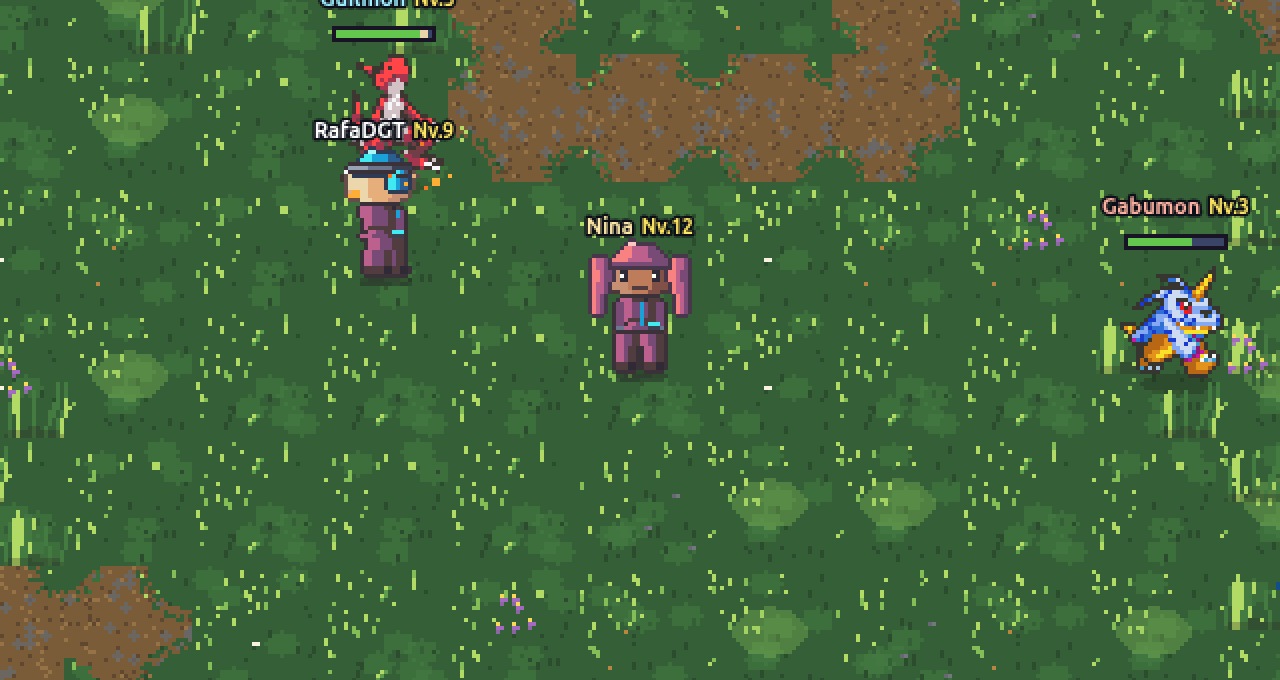
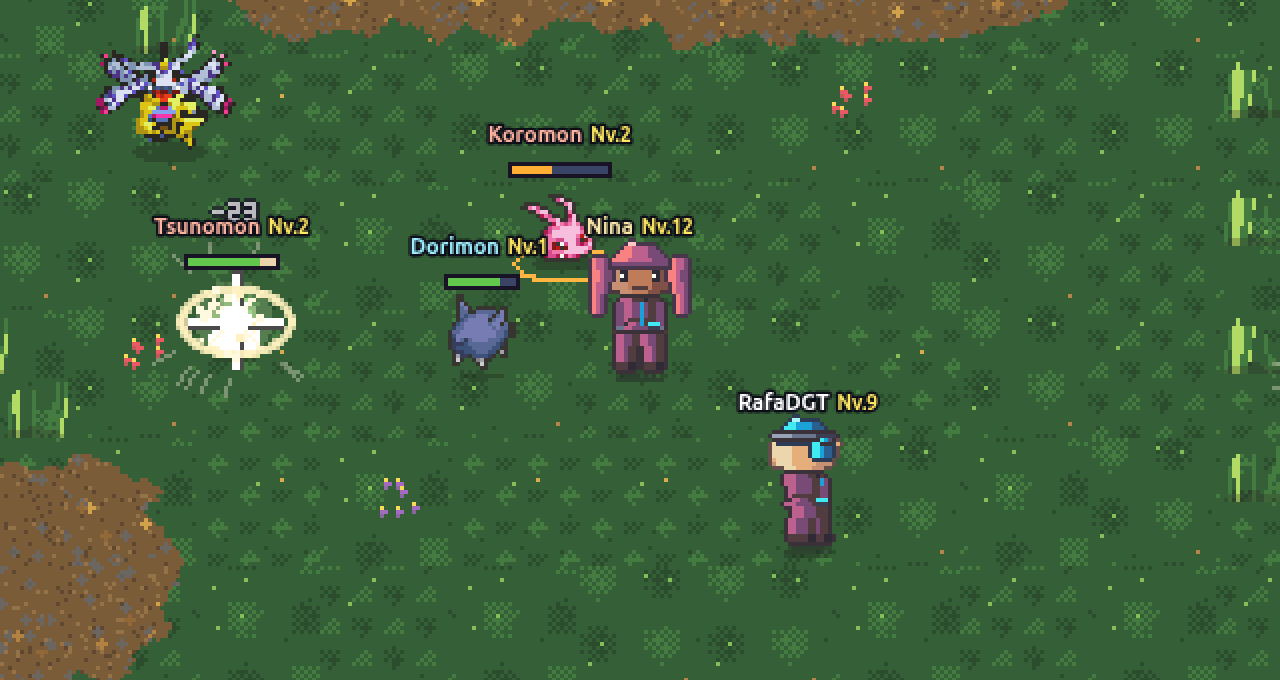
GS-003 world: capturas (inicial, Mapa-múndi, praia, vila, borda, Digivice, Inventário, Missões, Configurações, selvagens) e README da entrega

diff --git a/projects/prototypes/GS-003/prototype/world/README.md b/projects/prototypes/GS-003/prototype/world/README.md
@@ -1,7 +1,58 @@
 # GS-003 — mundo (vertical slice, Fase 5): combate no próprio mapa
 
-- **Autor:** game-dev · **Data:** 2026-11-08 · **Base:** ADR-009, `docs/WORLD_COMBAT_VISUAL_SPEC.md`, `docs/TECH_AUDIT.md` (Canvas 2D próprio), `docs/SPRITE_SPECIFICATION.md`, `docs/ANIMATION_STANDARD.md`.
+- **Autor:** game-dev · **Data:** 2026-11-08 (atualizado em 2026-11-09) · **Base:** ADR-009, `docs/WORLD_COMBAT_VISUAL_SPEC.md`, `docs/TECH_AUDIT.md` (Canvas 2D próprio), `docs/SPRITE_SPECIFICATION.md`, `docs/ANIMATION_STANDARD.md`.
 - Projeto Vite novo e separado. `../game/` é reaproveitado **sem alteração** (RNG, fórmulas e pacote `digimon-fan` importados via alias `@game`). `../game/arena-spike/` (congelado) não é tocado.
+
+## Inicial, Digimon selvagens, troca de mapa e telas secundárias (2026-11-09)
+
+Pedido do fundador: "ir criando as telas secundárias e outros Digimon para testar, e algo para trocar de mapa". Um commit por item: `8a02f1a` (QA R1), `b1b17ba` (inicial), `fdba15f` (selvagens), `b29fe28` (troca de mapa), `36198a5` (telas).
+
+- **QA R1 (`qa/QA_WORLD_R1.md`):**
+  - **#1:** o aviso do HUD diz, em destaque e com fundo, "Fan game não oficial e sem fins comerciais. Sem afiliação com Bandai ou Toei Animation."
+  - **#2:** o nome do Tamer é validado em JS (`checkTamerName`: vazio, mais de 14 caracteres ou caracteres fora de letras/números/espaço/`_-.`), não só pelo `maxlength`; um valor colado ou setado por script é cortado.
+- **Escolha do Digimon inicial** (`src/ui/starter.ts`, `src/data/starters.json`): depois do criador, num jogo novo, a tela "Escolha seu parceiro" mostra 5 bebês.
+  - Os 5: Koromon, Tsunomon, Tokomon, Gigimon (CREATURE-0002) e Dorimon (CREATURE-0014, do game-art).
+  - Cada cartão tem o sprite animado (o walk de `makeSpriteFn`), nome, estágio, atributo em pt-BR e a prévia da linha em 2 estágios com o nível de evolução. Uma espécie ainda sem arte aparece com placeholder "?".
+  - O escolhido vira a parceira no **Nv.1** e vai para o save (`starter`, v3). A equipe placeholder da cena não entra num jogo novo.
+  - Atalhos: setas e Enter. `?inicial=CREATURE-NNNN` pré-seleciona um bebê; `?criador=0` pula o criador e esta tela.
+- **18 Digimon selvagens de DW DS** (`tools/dwds_import/import_wild_dwds.js` → `GAME-ASSETS/01-creatures/CREATURE-0101..0118`, folha de contato `docs/screens/selvagens_dwds.png`):
+  - As espécies: Dorumon, Dorugamon, DoruGreymon, Biyomon, Gomamon, Tentomon, Palmon, Betamon, Gotsumon, Numemon, Floramon, Hagurumon, Crabmon, Otamamon, Goburimon, Tanemon, Lalamon e Penguinmon.
+  - O recorte é automático. As cores-chave são as que formam um bloco liso de 12×12. Os quadros de mapa são o maior grupo de componentes pequenos de altura parecida, em ordem de grade. A tabela do script só diz quais índices são S/N/W (conferidos no olho com `--index` [H]).
+  - Folhas PNG entrelaçadas são decodificadas pelo `@napi-rs/canvas`. Saída no contrato do creature.json v2 (walk/idle por direção, E espelhado de W, pivô nos pés, folha + atlas).
+  - Espécies em `world-species.json` com stats por estágio [H] e atributo oficial. Golpes (nomes oficiais) e learnsets mínimos em `src/data/moves-world.json` [H], somados aos do game-design.
+  - Linha **Dorimon → Dorumon (Nv.8) → Dorugamon (Nv.16) → DoruGreymon (Nv.24)**.
+  - Selvagens: 12 na floresta (`gen-forest-proof.mjs`) e 5 só na praia. Todos aparecem em `regions.json` por região.
+- **Troca de mapa** (`src/world/regions.ts`, `scripts/gen-region-maps.mjs`, `npm run map:regions`):
+  - **Floresta Densa** (`forest-proof`, forest-v4.1, com os 3 bots).
+  - **Praia dos Postes** (`praia`, 44×28, pacote `praia-v5` do game-art): areia, mar com autotile de 16 peças (sólido), a linha de postes e selvagens de praia Nv.4–9.
+  - **Vila dos Bebês** (`vila`, 36×26, `vila-v5`): trilha em cruz, casas com colisão de área (`solidW`×`solidH`), berços, ovos, cerca e arbustos. É zona segura, sem selvagens.
+  - **Saídas na borda:** objeto Tiled `portal` com `to`/`toStart`. Floresta leste ↔ praia oeste e floresta sul ↔ vila norte. Pisar na saída faz fade (≈0,3 s), monta o mapa novo e leva parceira, golpes, bits, Digidex e AUTO pelo mesmo `captureSave`/`applySave` do save.
+  - Um portal só arma de novo depois que o Tamer sai de cima dele. Destino bloqueado mostra um toast com o motivo.
+  - **Mapa-múndi** (botão "Mapa-múndi" no minimapa, atalho na grade ou **M**): as 6 regiões do GDD num esquema de nós e rotas, com faixa de nível, nº de espécies e estado: você está aqui, liberada, bloqueada com o motivo da regra `unlock`, ou sem mapa. "Viajar" só aparece nas liberadas com mapa.
+  - O desbloqueio usa o **nível do Tamer** e os chefes derrotados. Como chefes ainda não existem, a praia abre no Tamer Nv.10, e Montanha, Deserto e Zona Corrompida ficam fechadas. `?desbloquear=1` libera tudo para teste.
+  - O HUD (pílula da região e etiqueta do minimapa) e o minimapa (com cor de areia) trocam junto. O save v4 guarda o mapa e o jogo volta nele.
+  - `?map=praia|vila|forest-proof` força o mapa inicial; `?map=meadow` continua sendo o mapa de teste antigo, sem save.
+  - Os pacotes `*-v5/` repetem nomes de arquivo (`grass_00`, `path_blob_*`): ficam fora do conjunto global de tiles e só entram pelo pacote da cena, com prefixo (`pr5_`, `vl5_`). Sem preset noturno, a noite usa os tiles do dia sob o overlay.
+- **Telas secundárias** (`src/ui/panel.ts` + `src/ui/screens.ts`, modais no visual do "Equipe & Box", pt-BR, fecham por ×, clique fora ou Esc):
+  - **Digivice (V):** grade de todas as espécies, com a varredura de cada uma e silhueta "???" para quem ainda não foi visto. No topo, Vistos, Escaneados (100%) e a % de varredura total. O detalhe mostra sprite, estágio, atributo, elemento, evolução, golpes e onde aparece. "Visto" = apareceu num mapa visitado, como selvagem, parceira ou evolução.
+  - **Inventário (I** ou o baú**):** todos os itens de `economy.json` por categoria, com efeito, fonte e quantidade, mais os bits e a regra do mercado. Começa com 1 Digivice Padrão [H]; usar itens fica para depois.
+  - **Missões (Q):** `quests.json` com **progresso real** (`src/save/questlog.ts`, a partir dos eventos confirmados da sim).
+    - "Derrote N selvagens em <região>" conta as vitórias da sua parceira na região atual.
+    - "Capture N" e os marcos "Escaneie 5/12 espécies" contam as espécies que chegam a 100% de varredura. O capítulo 0 da história (parceiro) também é rastreado.
+    - N vem do `nRange` e fica fixo por dia; as diárias viram à meia-noite.
+    - "Coletar" credita os bits pela sim (intent `add_bits`) e os itens que existem no `economy.json`. Arena, dungeon e chefe aparecem como "Em breve".
+  - **Configurações (O):** AUTO, Auto-evoluir (sincronizados com os botões do HUD), Tempo do dia (Automático / Sempre dia / Sempre noite, salvo; `?time=` da URL tem prioridade) e **Resetar save** com confirmação ("Tem certeza?" → "Apagar e recomeçar"). O reset para o autosave, apaga a chave e recarrega.
+  - O save v5 guarda vistos, inventário, missões e configurações. Migrações v2→v3→v4→v5 encadeadas e testadas.
+- **Capturas** (`docs/screens/`):
+  - `starter_tela.png` e `starter_escolha.png` (com `creator_*`): `ONLY=creator`, e o log mostra a parceira (`Dorimon Nv.1`).
+  - `mapa_mundi.png`, `mapa_mundi_praia.png`, `mapa_fade_*.png`, `mapa_praia.png`, `mapa_vila.png`, `mapa_*_hud.png` e `mapa_borda_floresta.png` (sai da vila andando pela borda norte e chega na floresta): `ONLY=maps`.
+  - `tela_digivice*.png`, `tela_inventario.png`, `tela_missoes*.png` e `tela_configuracoes*.png`: `ONLY=screens`. Joga 40 s no AUTO para ter vitórias e varreduras reais, coleta uma missão, força a noite e confirma o reset.
+  - `proof_live_geral.png` refeita, agora com os selvagens novos.
+- **Testes** (192 no total):
+  - `tests/starter.test.ts`: 5 bebês, cartões, placeholder, seleção e Nv.1 no save.
+  - `tests/wild.test.ts`: 18 espécies com folha e atlas, learnsets, linha Dorimon e spawns.
+  - `tests/regions.test.ts`: saídas válidas de ida e volta, pacotes sem placeholder, colisão da água e das casas, mundos sem bots, regras de desbloqueio, Mapa-múndi, Panel e migração v4.
+  - `tests/screens.test.ts`: contagem das missões, virada do dia, Coletar, `add_bits`, Digivice, Inventário, Configurações, atalhos do HUD e migração v5.
 
 ## forest-v4.1: Wang-47, árvores novas, luz e noite nas entidades (2026-11-08)
 
@@ -203,18 +254,22 @@ cd projects/prototypes/GS-003/prototype/world
 npm install --offline     # o registry está bloqueado neste host; tudo vem do cache npm
 npm run dev               # http://127.0.0.1:5174  (?seed=7&auto=1&creatureScale=1)
                           #   ?time=night|day|HH:MM · ?timescale=N · ?criador=0|1 · ?novo=1 · ?offline=MIN
+                          #   ?map=praia|vila|forest-proof|meadow · ?desbloquear=1 · ?inicial=CREATURE-NNNN
 npm test                  # vitest: FSM, sim, presenter, assets, HUD
 npm run build             # tsc --noEmit + vite build → dist/
 npm run shots             # capturas em docs/screens/ (@napi-rs/canvas, sem navegador)
 npm run shots:vfx         # tiras de VFX por golpe → docs/screens/vfx_*.png (renderer real, sem navegador)
 npm run shots:live        # prova ao vivo: Chromium headless + HUD em DOM → docs/screens/proof_live_*.png e moves_*.png
-                          #   ONLY=forest | daynight | creator | offline → forest_v4_*, daynight_*, creator_*, offline_*
+                          #   ONLY=forest | daynight | creator | offline | maps | screens → forest_v4_*, daynight_*,
+                          #   creator_* + starter_*, offline_*, mapa_*, tela_*
                           #   CHROME_LIBS=/tmp/chromelibs/root/usr/lib/x86_64-linux-gnu npm run shots:live
 npm run map               # regenera src/data/maps/test-meadow.tmj.json
 npm run map:forest        # regenera src/data/maps/forest-proof.tmj.json
+npm run map:regions       # regenera src/data/maps/praia.tmj.json e vila.tmj.json
+node ../../tools/dwds_import/import_wild_dwds.js [--index]   # selvagens de DW DS → GAME-ASSETS/01-creatures/CREATURE-01NN
 ```
 
-Controles: clique ou toque no chão para andar · WASD · clique num Digimon selvagem para a parceira lutar com ele · botão AUTO · botão Fugir (ou tecla F) · **1–4** ou clique na barra usa o golpe do slot · **E** abre ou fecha "Equipe & Box" (aba Golpes: trocar golpes e prioridade do AUTO) · Esc fecha.
+Controles: clique ou toque no chão para andar · WASD · clique num Digimon selvagem para a parceira lutar com ele · botão AUTO · botão Fugir (ou tecla F) · **1–4** ou clique na barra usa o golpe do slot · **E** abre ou fecha "Equipe & Box" (aba Golpes: trocar golpes e prioridade do AUTO) · **M** Mapa-múndi · **V** Digivice · **I** Inventário · **Q** Missões · **O** Configurações · andar até a borda (onde a trilha sai) troca de mapa · Esc fecha.
 
 ## Arquitetura
 
@@ -254,3 +309,23 @@ src/render/labels.ts  nomes e níveis sem sobreposição (camada #labels na reso
 ## Limitações
 
 Ver o relatório de entrega. Resumo: sem medição de FPS em navegador real (não há Chromium neste host); Tamer placeholder; efeito de golpe procedural (o slot `04-effects/combat/` está vazio); captura = placeholder por varredura (4 vitórias = registrado); pathfinding é reta com deslize na colisão (A* fora do escopo, spec §10); números de balanceamento [H].
+
+Desta entrega (2026-11-09):
+- **Arte:**
+  - Gigimon (CREATURE-0002, agora o fallback Pagumon) e Dorimon (CREATURE-0014) são do game-art (commit `937b9c0`, feito durante esta tarefa) e só têm W/E. O jogo os carrega por PNG avulso.
+  - Os pacotes `forest-v5`, `praia-v5` e `vila-v5` são do game-art (commit `f2d836f`, feito durante esta tarefa). Os mapas só referenciam os nomes de arquivo; se o pacote mudar, `npm run map:regions` e o teste de chaves (`tests/regions.test.ts`) mostram o que falta.
+  - `forest-v5` não foi usado: a floresta continua `forest-proof`/forest-v4.1, como pedido.
+  - As casas do `vila-v5` aparecem recortadas e o `water_blob_15` parece listrado. Isso vem do PNG do pacote, não do renderer.
+- **Selvagens:**
+  - As direções S/N/W foram atribuídas no olho [H].
+  - 5 espécies só têm 2 direções na folha: Dorumon, Gotsumon, Otamamon e Goburimon têm S e W; Tanemon tem S e N. Nenhuma tem pose de batalha nem ataque de mapa: o avanço é procedural.
+  - O crédito de 14 das 18 folhas ficou genérico ("conferir na folha"); falta transcrever da imagem.
+  - Elecmon e Kunemon não têm folha de DW DS no acervo, então ficaram de fora.
+- **Troca de mapa:**
+  - A parceira chega com PV/MP cheios (mesmo `applySave` do save).
+  - Os bots só existem na floresta, e a vila não tem NPCs.
+  - O desbloqueio é pelo nível do Tamer, que é placeholder de cena (Nv.12).
+- **Missões e itens:**
+  - Missões de arena, dungeon e chefe não são rastreáveis.
+  - Itens não têm uso.
+  - A tela de inicial só aparece num jogo novo, com o criador ligado.
